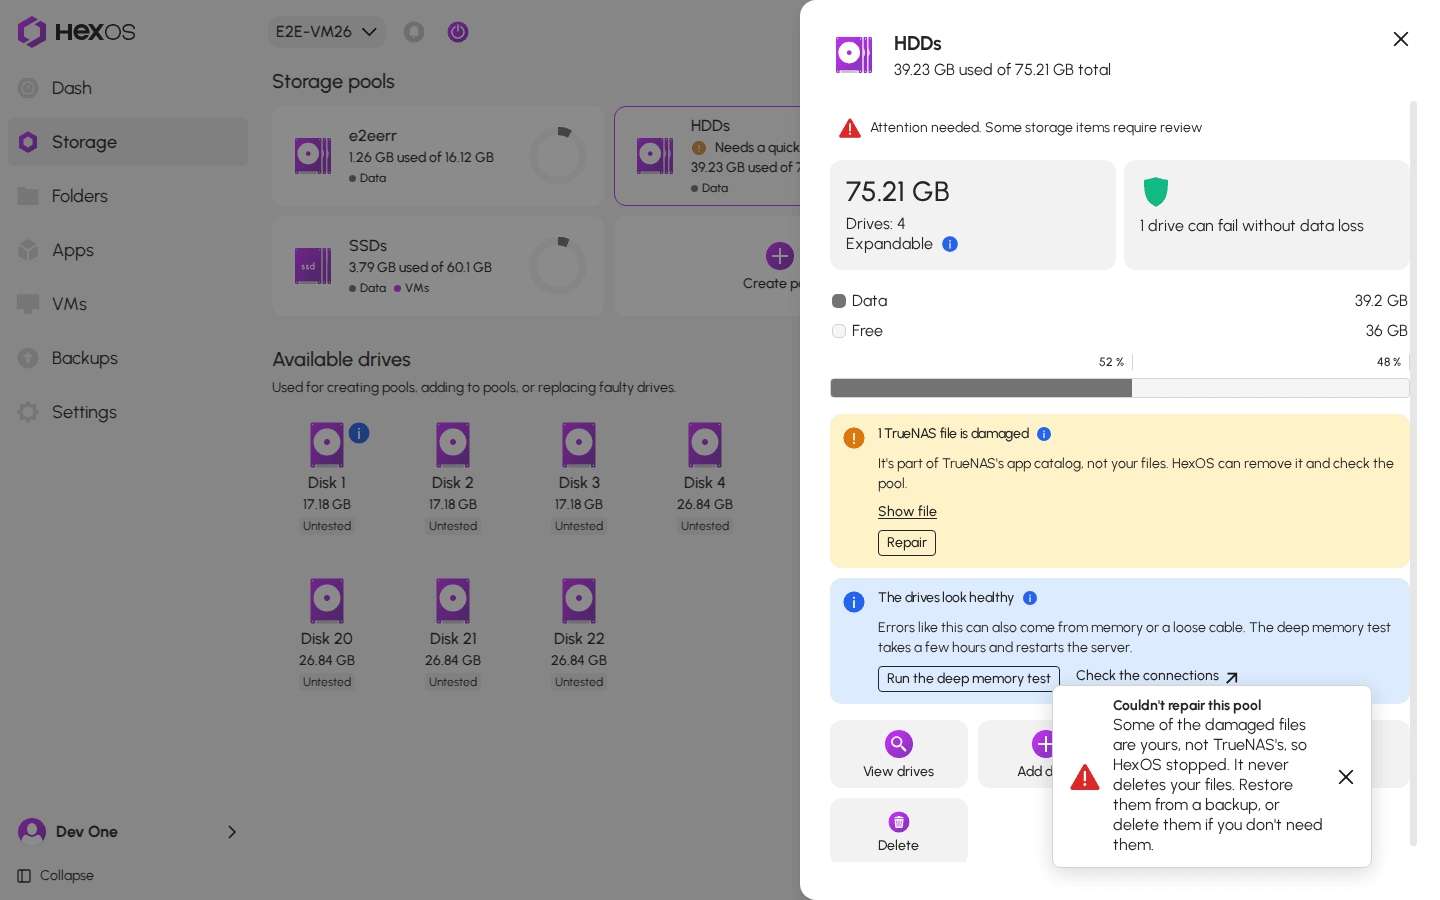
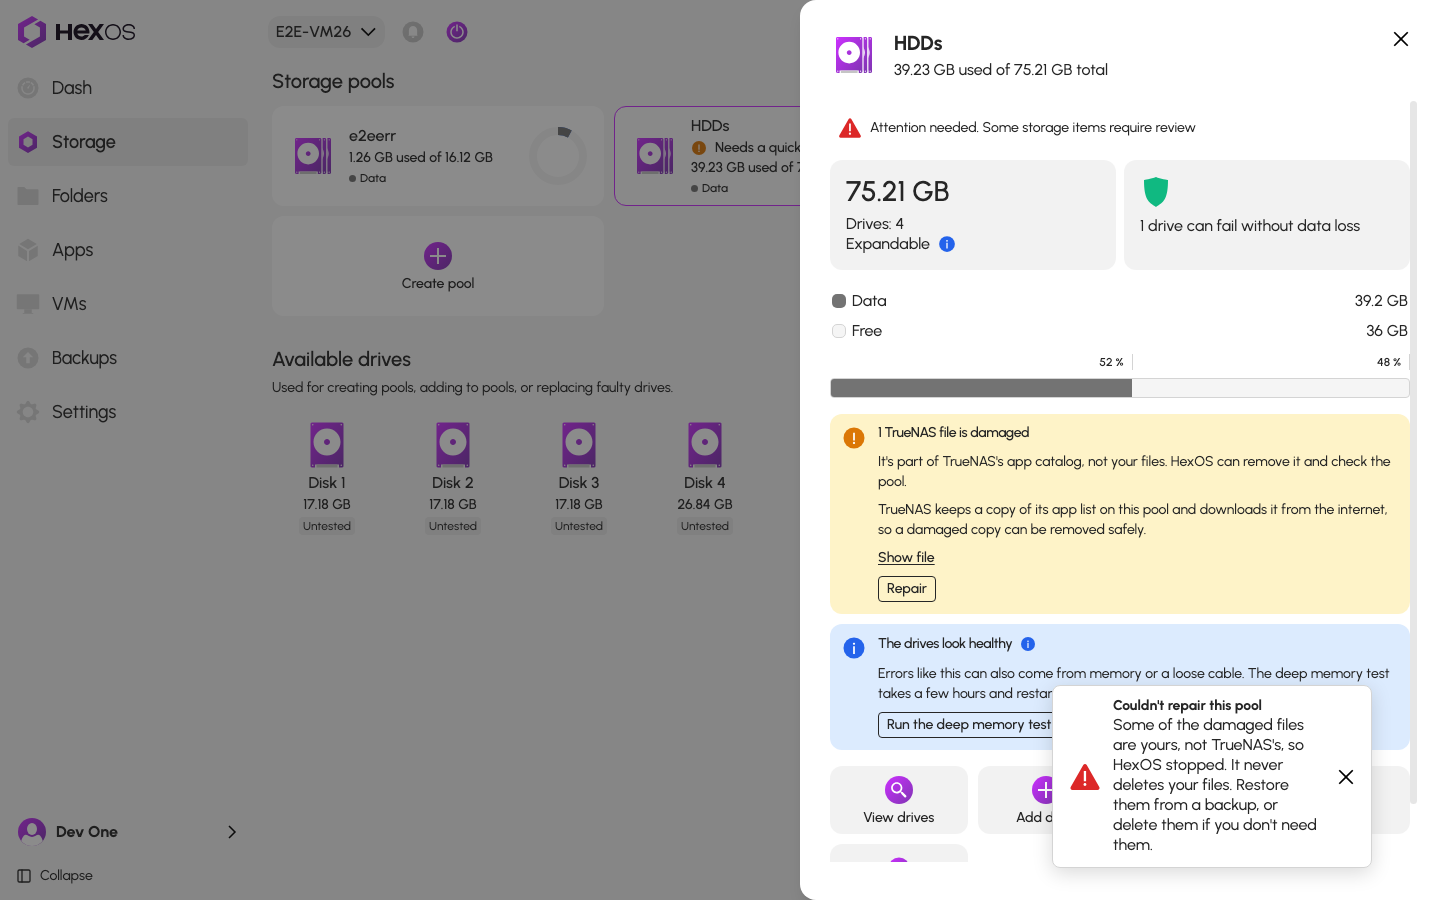
docs: update repair-access and pool-data-errors for on-page notes

diff --git a/features/folders/repair-access.md b/features/folders/repair-access.md
@@ -65,7 +65,7 @@ HexOS doesn't turn sharing off or stop your apps during the repair. Your compute
 
 HexOS checks every file right before it changes anything. If an app changes the permissions on a file while the repair is running, that change can be replaced. Your files themselves are safe: only permissions change.
 
-If an app uses the folder, the dialog says **Stop the app that uses this folder first, if you can.** Hold the pointer over the info icon to see which apps use it. To stop an app, click it on the **Apps** screen, then click **Stop**. Start it again when the repair is done.
+If an app uses the folder, the dialog says **Stop the app that uses this folder first, if you can.** The line under it names the apps that use the folder. To stop an app, click it on the **Apps** screen, then click **Stop**. Start it again when the repair is done.
 
 ## Repair access
 
@@ -79,9 +79,9 @@ If an app uses the folder, the dialog says **Stop the app that uses this folder 
 </details>
 
 3. Wait while the dialog shows **Checking the files in this folder…**.
-4. Read the dialog. Hold the pointer over an info icon to read more about a line.
-   - **HexOS saves a snapshot first.** The snapshot keeps a copy of the old permissions.
-   - **Stop the app that uses this folder first, if you can.** This line shows only when an app uses the folder. The section above, "Your folder stays in use", explains why.
+4. Read the dialog. Each line has a short note under it that says more.
+   - **HexOS saves a snapshot first.** The note says that permissions set outside HexOS are replaced, and the snapshot keeps the old ones.
+   - **Stop the app that uses this folder first, if you can.** This line shows only when an app uses the folder. The note names the apps. The section above, "Your folder stays in use", explains why.
    - **Removes 1 old account.** Some files still name an account that isn't on this server, usually one from an old server. Repair access removes it.
 5. If the dialog shows a box that starts with **Let my apps**, read the next section, then check the box.
 6. Click **Repair access**.
@@ -130,7 +130,7 @@ If you don't want to give your apps the whole folder, close the dialog. Nothing 
 
 Sometimes a person's account has its own access to some files in the folder, for example a folder that only one family member can change. Repair access would take that away, so HexOS doesn't run it.
 
-The dialog shows **Some accounts would lose access, so this can't run**, and lists each account with the number of files it would lose. The **Repair access** button stays off. Nothing changes.
+The dialog shows **Some accounts would lose access, so this can't run**, and lists each account with the number of files it would lose. Under the list, it says that these accounts have their own access to files in the folder, and that Repair access would replace it. The **Repair access** button stays off. Nothing changes.
 
 <details>
 <summary> An account would lose access </summary>

diff --git a/troubleshooting/pool-data-errors.md b/troubleshooting/pool-data-errors.md
@@ -64,18 +64,12 @@ When every damaged file is part of the TrueNAS app catalog, the pool's info pane
 ![truenas-file-damaged.png](/pool-data-errors/truenas-file-damaged.png){.medium .framed}
 </details>
 
-Click **Show file** to see which file it is. Hover over the info icon next to the title to read why it is safe to remove.
+Under the title, the message says why the file is safe to remove: TrueNAS downloads its app list from the internet, so a damaged copy can be removed. Click **Show file** to see which file it is.
 
 <details>
 <summary> The damaged file, shown </summary>
 
 ![truenas-file-shown.png](/pool-data-errors/truenas-file-shown.png){.medium .framed}
-</details>
-
-<details>
-<summary> Why it is safe to remove </summary>
-
-![truenas-file-tip.png](/pool-data-errors/truenas-file-tip.png){.medium .framed}
 </details>
 
 ### Repair the pool
@@ -244,13 +238,7 @@ Otherwise, for example after a restart, the info panel says **The pool still sho
 ![old-errors-check-first.png](/pool-data-errors/old-errors-check-first.png){.medium .framed}
 </details>
 
-<details>
-<summary> What Reset error count does </summary>
-
-![reset-error-count-tip.png](/pool-data-errors/reset-error-count-tip.png){.medium .framed}
-</details>
-
-**Reset error count** only resets the displayed error counts. It doesn't repair anything.
+The message also says what the button does: **Reset error count** only resets the displayed error counts. It doesn't repair anything.
 
 > **Info:** A restart of the server between **Check pool** and **Reset error count** means you need to run **Check pool** again first. The memory test restarts the server too.
 {.is-info}
